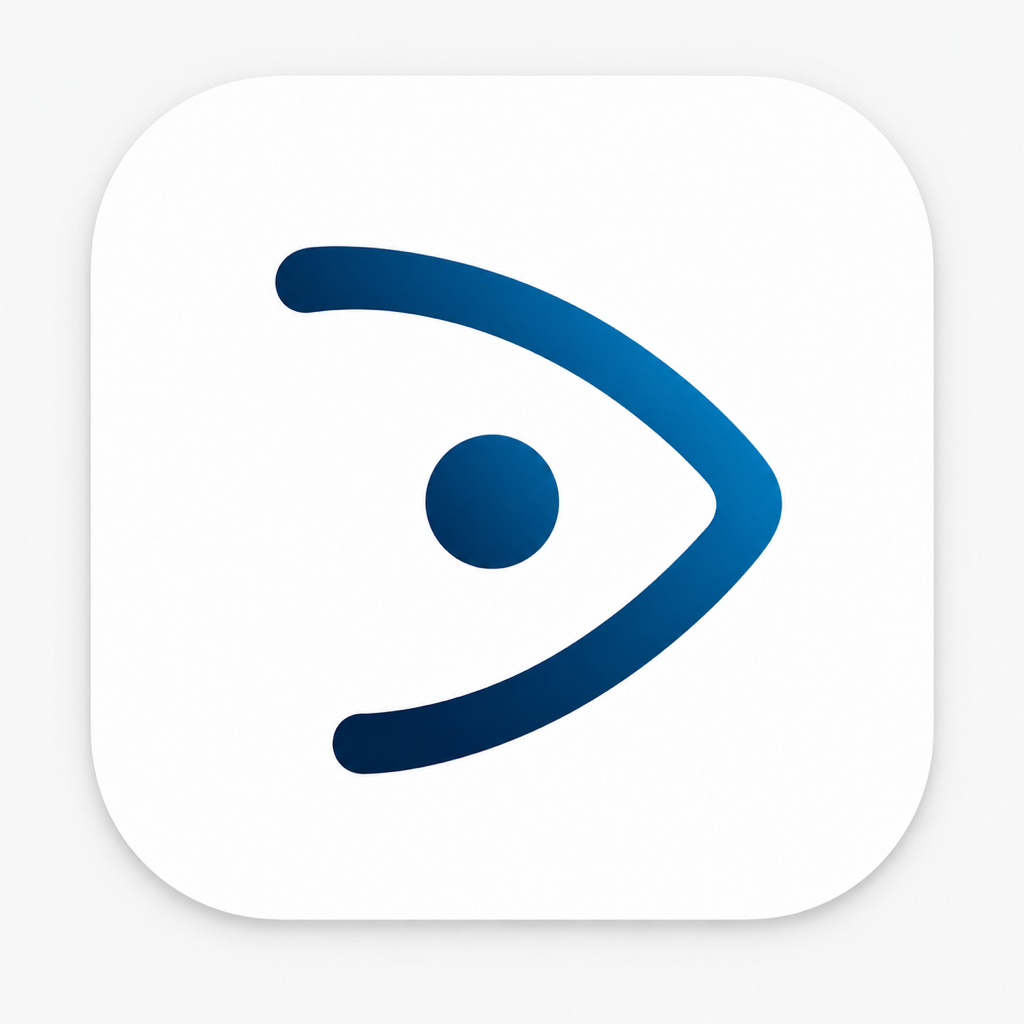
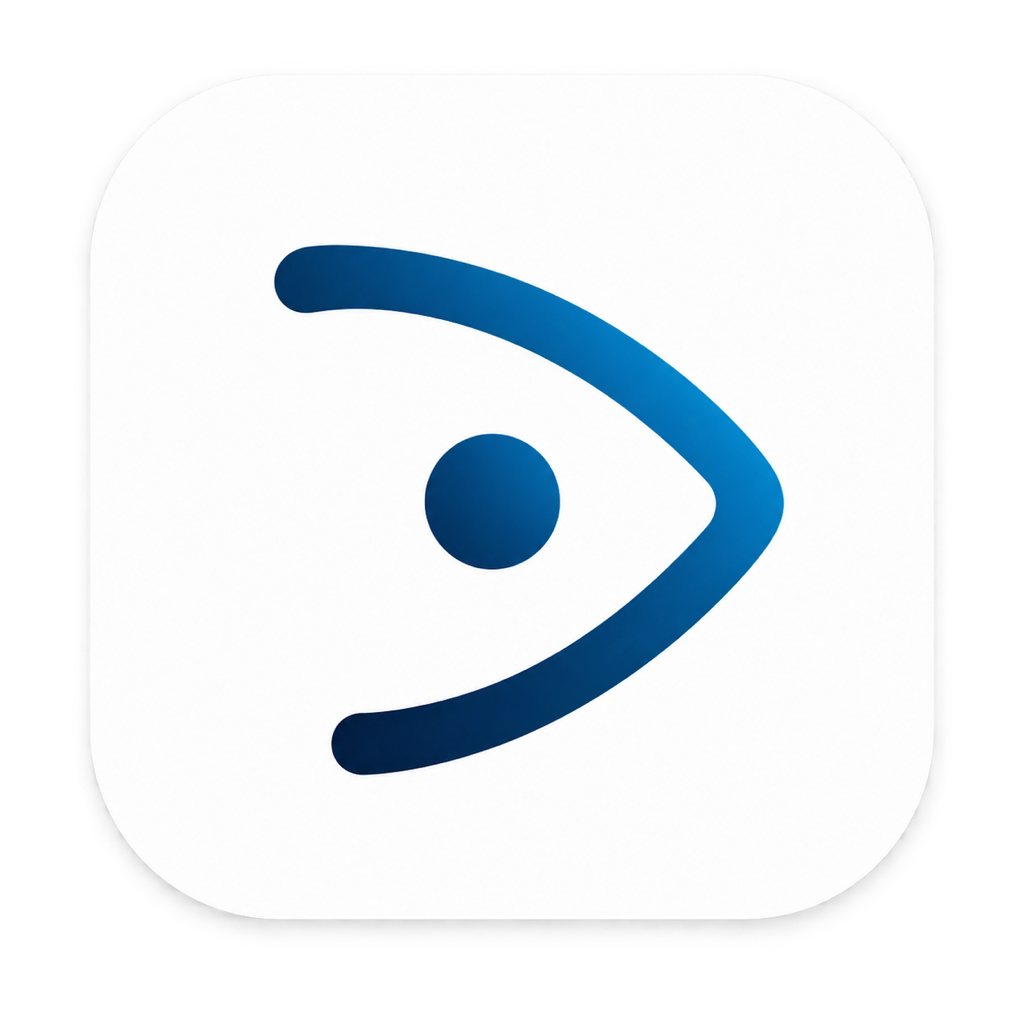
fix(brand): 修正运行名称与图标透明边缘

diff --git a/apps/desktop/main/index.js b/apps/desktop/main/index.js
@@ -26,7 +26,7 @@ import { currentDsh, logStartup, startDsh, stopDsh } from './dsh/index.js'
 import { installNavigationPolicy, installSessionPolicy } from './dsh/session-policy.js'
 import { migrateUserData } from './dsh/userdata-migrate.mjs'
 
-const APP_RUNTIME_NAME = 'MOYU DSH'
+const APP_RUNTIME_NAME = 'Moyu'
 const APP_DISPLAY_NAME = 'MOYU DSH'
 
 // C3-c 身份切换 + userData 迁移。改应用名（旧 MOYU/Moyu → MOYU DSH）会让 OS 派生新的 userData
@@ -34,6 +34,7 @@ const APP_DISPLAY_NAME = 'MOYU DSH'
 // 不丢数据、原子发布、失败保底用旧目录、绝不进空白环境（详见 dsh/userdata-migrate.mjs）。
 // 显式传入 --user-data-dir（dev / 测试 / 隔离启动）时，userData 由启动方控制：不迁移、不强制路径。
 const explicitUserDataDir = process.argv.some((a) => a === '--user-data-dir' || a.startsWith('--user-data-dir='))
+process.title = APP_RUNTIME_NAME
 app.setName(APP_RUNTIME_NAME)
 if (!explicitUserDataDir) {
   const appDataRoot = process.env.MOYU_APPDATA_OVERRIDE || app.getPath('appData')
